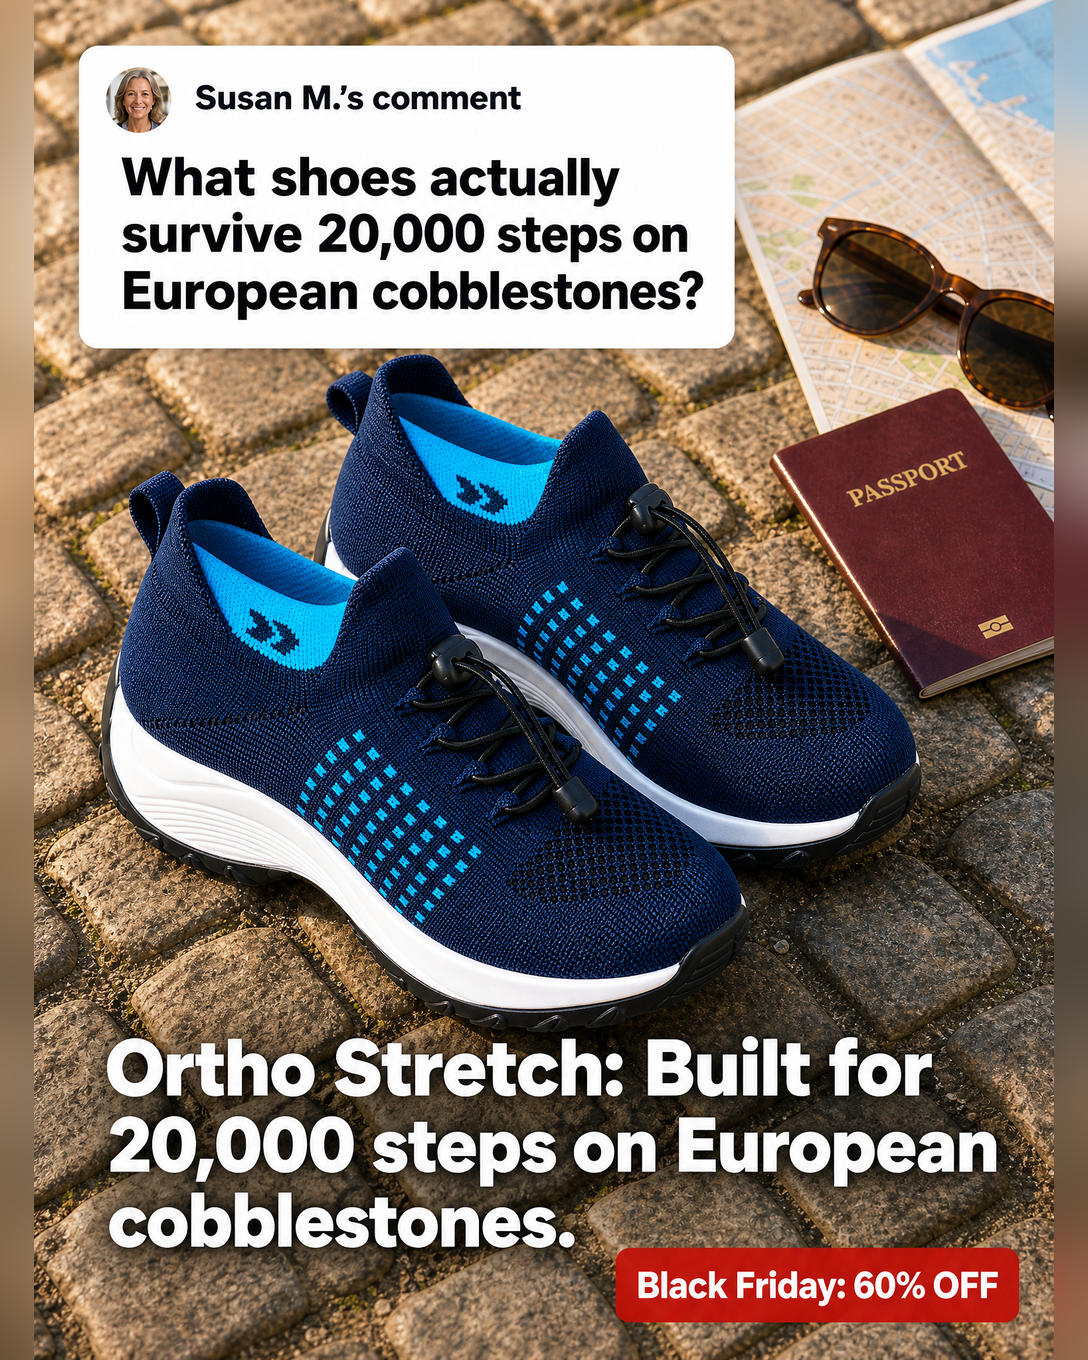
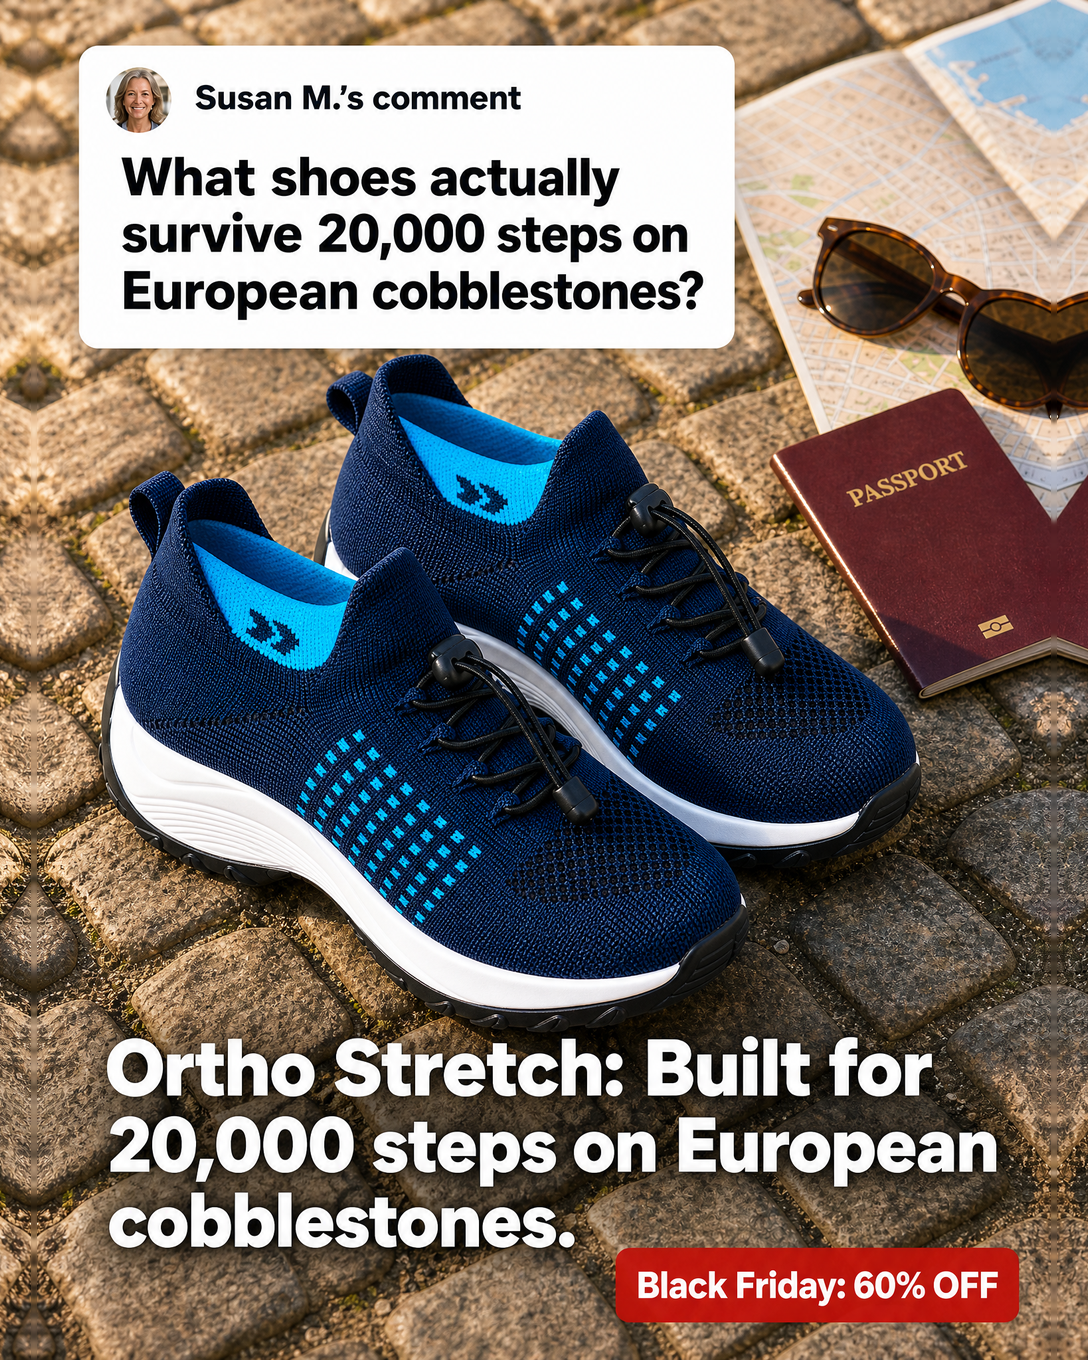
Full-bleed 4:5 from Kie 3:4: mirror-fill the side gaps instead of blurred strips; White Blue cobblestone ad fixed
Claude-Session: https://claude.ai/code/session_01VkxmJvjFD99GyMx7amR6wr

Changed region(s): [[0.0, 0.0, 0.0312, 1.0], [0.9688, 0.4632, 1.0, 1.0], [0.9688, 0.0, 1.0, 0.4015]]

diff --git a/ads/generate.py b/ads/generate.py
@@ -293,7 +293,7 @@ def call_kie(prompt, images, args, size, kind):
         urls.append(body["data"]["downloadUrl"])
     if kie_ratio(size) == "3:4":
         prompt += ("\n\nThe image is 3:4: keep at least 4% empty margin above the top line of text and below the "
-                   "bottom element, and plain continuous background along the left and right edges.")
+                   "bottom element, keep text at least 6% in from the left and right edges, and fill the photo edge to edge.")
     r = requests.post(f"{KIE_API}/createTask", headers=auth, timeout=60, json={
         "model": "gpt-image-2-image-to-image",
         "input": {"prompt": prompt, "input_urls": urls, "aspect_ratio": kie_ratio(size),
@@ -360,18 +360,29 @@ def fit(img, size):
 
 
 def fit_pad(img, size):
-    """Kie returns 3:4 for our 4:5: cropping cut off headlines and offer bars at the top/bottom, so keep the
-    whole image and fill the thin side gaps (~3% each side) with a blurred, stretched copy of itself."""
-    from PIL import ImageFilter
+    """Kie returns 3:4 for our 4:5. Keep the whole image (trimming top/bottom clipped headlines and offer tags)
+    and fill the thin side gaps (~3% each) with a mirror of the image's own edge, so the ad is full-bleed with no
+    blurred strips (user 2026-11-20: "why aren't you making it full screen")."""
+    from PIL import ImageFilter, ImageOps
     tw, th = size
     w, h = img.size
     if w * th >= h * tw:          # not taller than the target: the normal crop is fine
         return fit(img, size)
     nw = round(w * th / h)
     fg = img.resize((nw, th), Image.LANCZOS)
-    bg = img.resize(size, Image.LANCZOS).filter(ImageFilter.GaussianBlur(40))
-    bg.paste(fg, ((tw - nw) // 2, 0))
-    return bg
+    pl = (tw - nw) // 2
+    pr = tw - nw - pl
+    out = Image.new("RGB", size)
+    out.paste(fg, (pl, 0))
+    if pl:
+        out.paste(ImageOps.mirror(fg.crop((0, 0, pl, th))), (0, 0))
+    if pr:
+        out.paste(ImageOps.mirror(fg.crop((nw - pr, 0, nw, th))), (pl + nw, 0))
+    seam = Image.new("L", size, 0)
+    for x in (pl, pl + nw):
+        seam.paste(255, (max(0, x - 3), 0, min(tw, x + 3), th))
+    out.paste(out.filter(ImageFilter.GaussianBlur(2)), (0, 0), seam)
+    return out
 
 
 def render_native(bdir, brand, concept, ref, ref_bytes, args, api_key):
